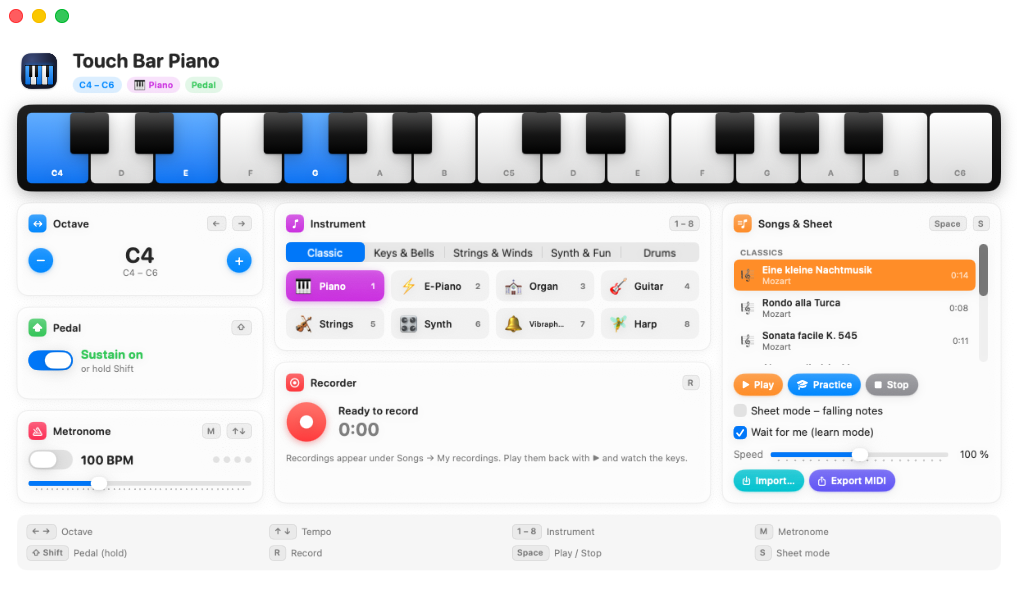
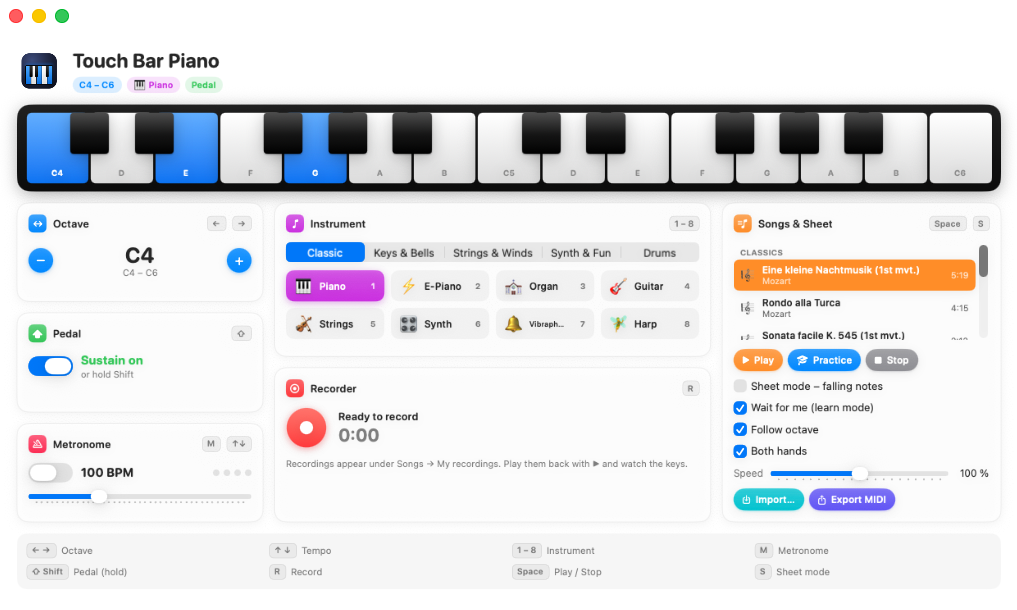
v3.1: docs, sources, README images
Claude-Session: https://claude.ai/code/session_01Sk4P59ezPqq8GNnCPdJYPL

diff --git a/README.md b/README.md
@@ -33,7 +33,7 @@
 | 🦶 **Sustain pedal** | Hold <kbd>Shift</kbd> – just like the pedal on a real piano. |
 | ⏱ **Metronome** | 40–240 BPM with an accented first beat. |
 | ⏺ **Recorder** | Record, play back and watch the keys light up. Recordings are kept between launches. |
-| 🎼 **Classics built in** | Mozart, Beethoven, Bach and Brahms – press play and watch. |
+| 🎼 **Classics built in** | Complete pieces by Mozart, Beethoven, Bach and Brahms with both hands – press play and watch. |
 | 📖 **Sheet mode** | Falling notes show what to play next. *Learn mode* waits until you hit the right key. |
 | 🎛 **MIDI** | Import `.mid` files, export your recordings to GarageBand & co. |
 | 🌍 **English & German** | Follows your macOS language. |
@@ -84,14 +84,18 @@ Every shortcut is also shown – and clickable – in the app window.
 
 ## 🎼 Built-in songs
 
+Complete pieces with **both hands**, taken note for note from verified public-domain editions – see [`Songs/SOURCES.md`](Songs/SOURCES.md).
+
 | Composer | Songs |
 |---|---|
-| Mozart | Eine kleine Nachtmusik · Rondo alla Turca · Sonata facile K. 545 · Ah vous dirai-je, Maman |
+| Mozart | Eine kleine Nachtmusik (1st mvt.) · Rondo alla Turca · Sonata facile K. 545 (1st mvt.) · Ah vous dirai-je, Maman (Theme & Var. 1) |
 | Beethoven | Für Elise · Ode to Joy |
 | Bach / Petzold | Minuet in G |
-| Brahms | Lullaby (Wiegenlied) |
+| Brahms | Lullaby (Wiegenlied) Op. 49 No. 4 |
 
-All public domain, simplified to a right-hand melody that fits two octaves.
+- **Both hands** (toggle): play back melody + accompaniment, or the melody alone. In play-along practice the left hand plays with you.
+- **Follow octave** (toggle): the Touch Bar's two octaves move along with the melody, so whole pieces fit.
+- Sheet and learn mode always use the melody (right hand) – the accompaniment shows as grey notes.
 
 ## ✍ Write your own songs
 
@@ -112,7 +116,7 @@ C4 D4 E4 C4 | C4 D4 E4 C4 | E4 F4 G4:2 | E4 F4 G4:2
 | `R`, `R:2` | Rest |
 | `\|` | Bar line (ignored, just for reading) |
 
-Standard **MIDI files** (`.mid`) work too. Pull requests with new songs are welcome!
+Standard **MIDI files** (`.mid`) work too – the first track with notes becomes the melody, all other tracks the accompaniment. Pull requests with new songs are welcome!
 
 ## 💻 Compatibility
 
@@ -157,7 +161,7 @@ In `~/Library/Application Support/Touch Bar Piano/songs.json`. Delete a song by 
 | Sound | `AVAudioEngine` + 3× `AVAudioUnitSampler` with macOS' `gs_instruments.dls` |
 | Pedal | MIDI Control Change 64 |
 | Window | SwiftUI in an `NSWindow` |
-| Songs | Own text format + minimal MIDI reader/writer |
+| Songs | Bundled two-track MIDI files (melody + accompaniment) built by `tools/make_songs.py`; own text format + minimal MIDI reader/writer |
 | CI | GitHub Actions builds, self-tests (songs + MIDI round-trip), renders screenshots and releases |
 
 ```
@@ -181,4 +185,4 @@ open Piano.app
 
 ## 📄 License
 
-[MIT](LICENSE) © touchbar-piano contributors · See the [CHANGELOG](CHANGELOG.md) for all versions.
+[MIT](LICENSE) © touchbar-piano contributors · Song files: see [`Songs/SOURCES.md`](Songs/SOURCES.md) (public domain, *Sonata facile* CC BY-SA 3.0) · See the [CHANGELOG](CHANGELOG.md) for all versions.

diff --git a/CLAUDE.md b/CLAUDE.md
@@ -39,9 +39,13 @@ The repo is public. **No personal data, credentials or keys – ever, in any com
 | `Audio.swift` | `AVAudioEngine` + 3 samplers (keys, drums, metronome) from macOS `gs_instruments.dls` |
 | `TouchBar.swift` | `PianoView` (multitouch), `BarProvider`, `SystemModal` = private API for full-width system-wide bar, Esc hidden |
 | `UI.swift` | SwiftUI window: header, live keyboard + falling notes, cards, shortcut bar |
-| `Songs.swift` | `Song` model, text song format, 8 built-in public-domain songs, MIDI reader/writer, `selfTest()` |
+| `Songs.swift` | `Song` model (`SongNote.acc` = accompaniment), text song format, built-in song table, MIDI reader/writer, `selfTest()` |
 
 Global singletons: `state` (AppState), `provider` (BarProvider).
+
+**Songs:** `Songs/*.mid` (bundled into the app by `build.sh`) are generated by `tools/make_songs.py` from verified
+sources listed in `Songs/SOURCES.md` – track 1 = melody, track 2 = accompaniment. Never write song notes from memory;
+take them from a public-domain edition and record the source + licence in `SOURCES.md`.
 
 ## Conventions
 - Keep it simple: plain `swiftc`, no packages, no Xcode project.
@@ -57,5 +61,4 @@ Global singletons: `state` (AppState), `provider` (BarProvider).
 
 ## Known limits / ideas
 - Not verifiable in CI: touch input, audio, pedal, drum sounds (no Touch Bar, no audio device).
-- Built-in songs were written from memory (simplified right hand) – owner may report wrong notes.
-- Ideas not built yet: velocity, two-hand songs, classic staff notation, notarised builds.
+- Ideas not built yet: velocity, classic staff notation, notarised builds.

diff --git a/release-notes.md b/release-notes.md
@@ -1,13 +1,10 @@
-**Touch Bar Piano v3** – the biggest update so far. Universal (Intel + Apple Silicon), macOS 11+.
+**Touch Bar Piano v3.1** – real songs. Universal (Intel + Apple Silicon), macOS 11+.
 
-- 🎹 Full-width Touch Bar, Esc hidden, works system-wide
-- ✨ New macOS-style window – everything clickable, all shortcuts still work
-- 🎻 32 instruments + 🥁 drum mode with 3 kits
-- ⏺ Recorder with playback and lit keys
-- 🎼 Classics by Mozart, Beethoven, Bach & Brahms
-- 📖 Sheet mode with falling notes and a learn mode that waits for you
-- 🎛 MIDI import & export
-- 🌍 English / German (follows macOS)
+- 🎼 All 8 built-in songs are now **complete pieces with both hands**, note for note from verified public-domain editions (Mutopia Project, Breitkopf & Härtel 1878) – no more wrong notes
+- 🙌 New toggle **Both hands**: melody + accompaniment, or melody only
+- 🎹 New toggle **Follow octave**: the Touch Bar moves along with the melody
+- 🎧 Play-along practice: the left hand plays with you, accompaniment shown as grey notes
+- 🎛 MIDI import/export keeps melody and accompaniment apart
 
 **Install:** download `Piano.app.zip`, unzip, then in Terminal:
 
@@ -16,4 +13,4 @@ xattr -dr com.apple.quarantine Piano.app
 open Piano.app
 ```
 
-See the [README](../../#readme) for details and the [CHANGELOG](../../blob/main/CHANGELOG.md).
+Song sources & licences: [Songs/SOURCES.md](../../blob/main/Songs/SOURCES.md) · [CHANGELOG](../../blob/main/CHANGELOG.md)

diff --git a/CHANGELOG.md b/CHANGELOG.md
@@ -1,5 +1,13 @@
 # Changelog
 
+## v3.1
+- All 8 built-in songs are now complete pieces with both hands, taken from verified public-domain editions
+  (Mutopia Project, Breitkopf & Härtel 1878) instead of being written from memory – fixes wrong notes in
+  Eine kleine Nachtmusik, Rondo alla Turca, Sonata facile, Lullaby and Ah vous dirai-je, Maman
+- New toggles: **Follow octave** (Touch Bar moves with the melody) and **Both hands** (melody + accompaniment)
+- Play-along practice plays the left hand with you; accompaniment shown as grey falling notes
+- MIDI import/export keeps melody and accompaniment apart (two tracks)
+
 ## v3
 - Full-width, system-wide Touch Bar (private API, from v2.1-beta) with Esc hidden
 - New SwiftUI window in macOS style: live keyboard, cards, switches, sliders – every shortcut also clickable
